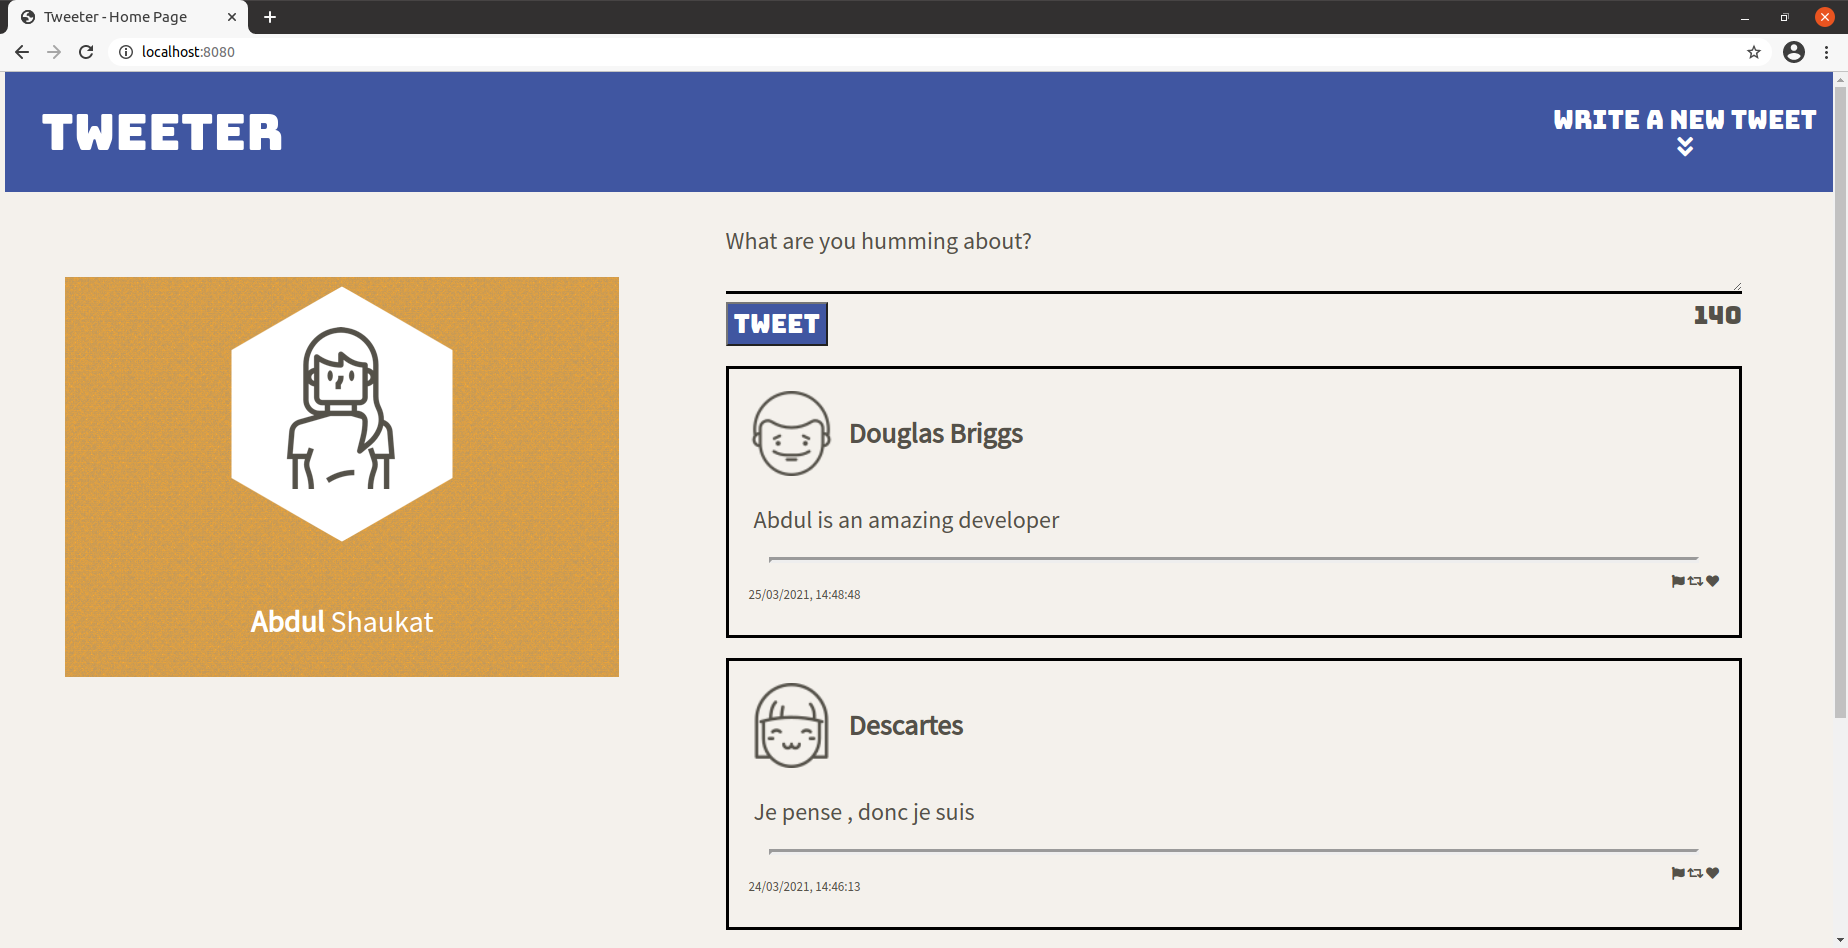
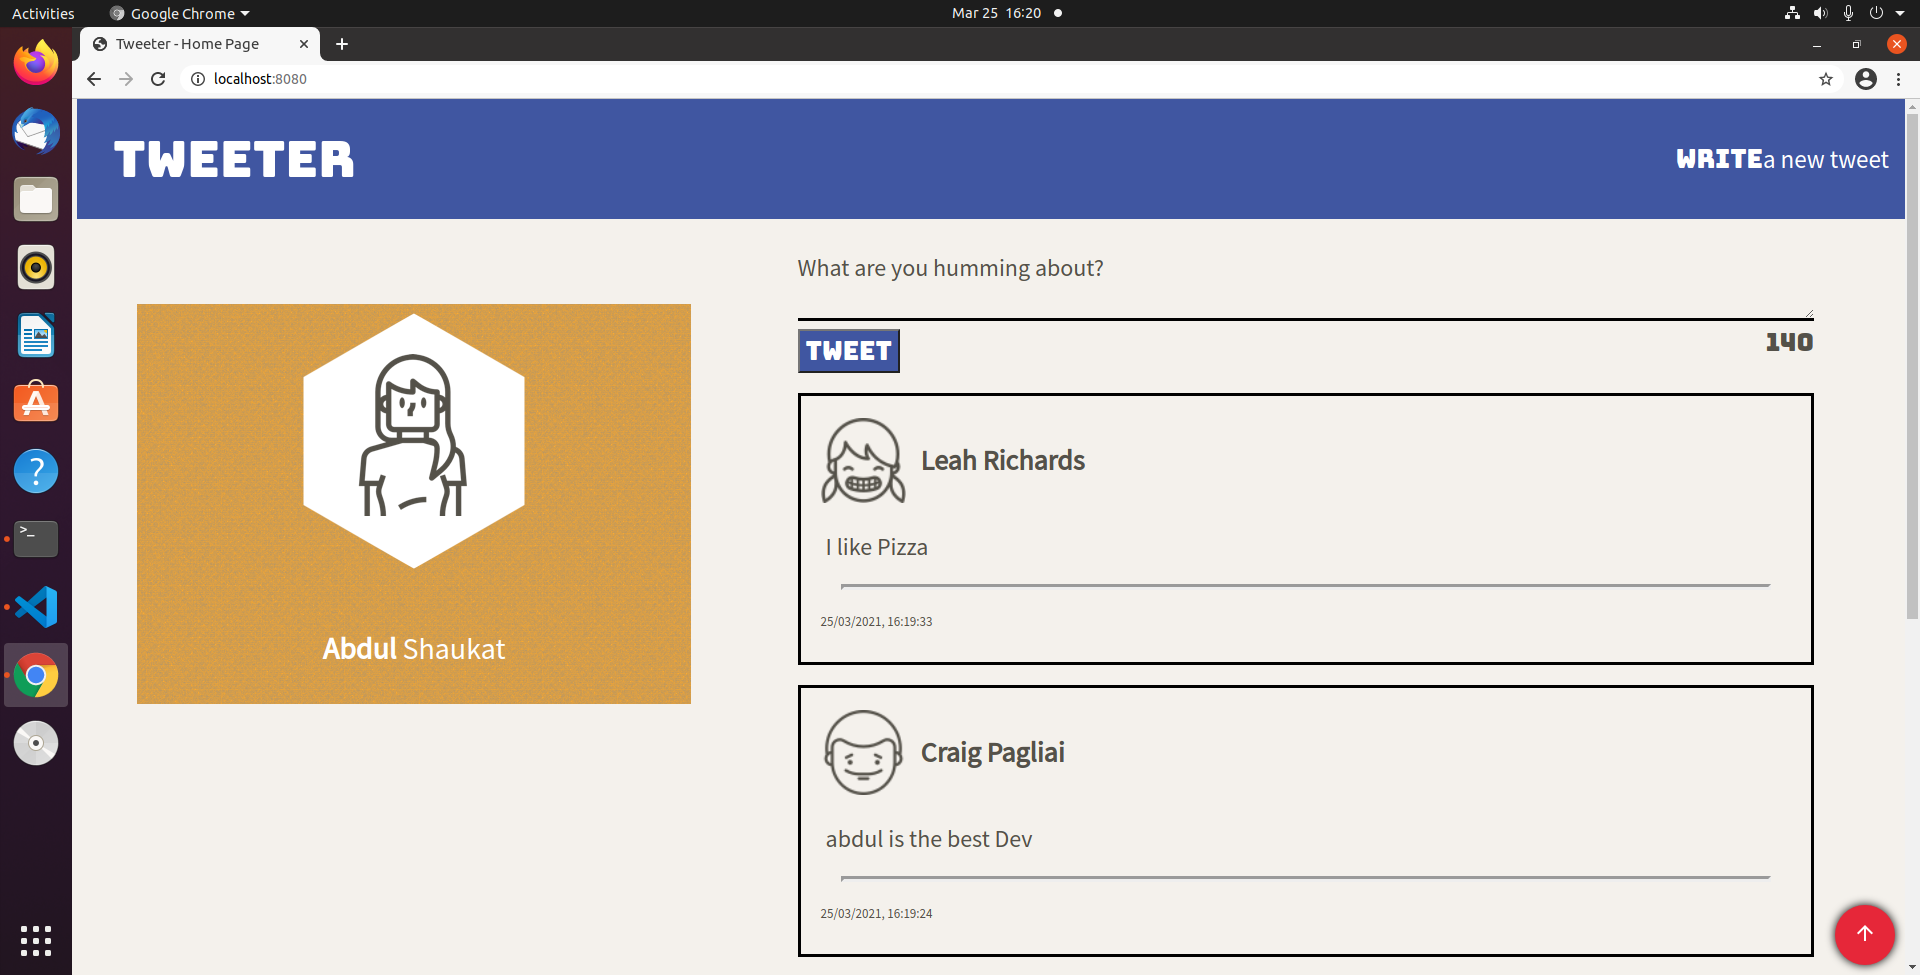
adding stretch features

Changed region(s): [[0.0, 0.0, 1.0, 1.0], [0.987, 0.6118, 1.0, 0.7648], [0.1234, 0.6424, 0.2776, 0.673]]

diff --git a/public/index.html b/public/index.html
@@ -7,6 +7,7 @@
 
     <!-- External CSS -->
     <link rel="stylesheet" href="https://cdnjs.cloudflare.com/ajax/libs/normalize/8.0.1/normalize.min.css" type="text/css" />
+    <link href="https://fonts.googleapis.com/icon?family=Material+Icons" rel="stylesheet">
     <!-- Fonts CDN-->
     <link rel="preconnect" href="https://fonts.gstatic.com">
     <link href="https://fonts.googleapis.com/css2?family=Bungee&family=Source+Sans+Pro&display=swap" rel="stylesheet">
@@ -30,8 +31,8 @@
   <body>
     <nav>
       <div class="name">TWEETER</div>
-      <div class="navRight"> Write <span style="font-family: Source Sans Pro, sans-serif"></span>  Write a new tweet</span>
-      <i class="fas fa-angle-double-down"></i>
+      <div class="navRight"> Write  <span style="font-family:Source Sans Pro, sans-serif"> a new tweet</span>
+      <!-- <i class="fas fa-angle-double-down"></i> -->
       </div>
     </nav>
    
@@ -46,6 +47,10 @@
     </header>
 
     <!-- Page-specific (main) content here -->
+    <!-- //creates up arrow icon -->
+    <div>
+      <button id="scroll"><i class="material-icons">arrow_upward</i></button>
+    </div>
     
     <main class="container">
       <section class="new-tweet">
@@ -71,3 +76,13 @@
   </body>
 </html>
 
+<!-- scroll functionality -->
+<script>
+  $('#scroll').on('click',()=>{
+    window.scrollTo({
+      top: 0,
+      left: 0,
+      behavior: "smooth"
+    })
+  })
+</script>

diff --git a/public/styles/layout.css b/public/styles/layout.css
@@ -34,6 +34,24 @@ body {
   
 }
 
+#scroll {
+  position:fixed;
+  right: 10px;
+  bottom: 10px;
+  width: 60px;
+  height: 60px;
+  border-radius: 50%;
+  background: #e62739;
+  box-shadow: 0px 0px 10px black ;
+  border: none;
+  color: white;
+  outline: none;
+  cursor: pointer;
+}
+
+#scroll:active {
+  color: #cc2333;
+}
 
 
 /* Another tablet breakpoint is maximum width of 1024px */

diff --git a/public/styles/nav.css b/public/styles/nav.css
@@ -21,8 +21,8 @@ nav {
 .navRight {
     font-size: 25px;
     display: flex;
-    flex-direction: column;
-    align-items: center;
+    /* flex-direction: column;
+    align-items: center; */
   
 }
 

diff --git a/public/styles/tweets.css b/public/styles/tweets.css
@@ -54,6 +54,11 @@ hr {
 
 .icons{
     margin-left: auto;
+    visibility: hidden;
+}
+
+.articlehead:hover .icons{
+    visibility: visible;
 }
 
 .articlefooter div{

diff --git a/README.md b/README.md
@@ -15,6 +15,7 @@ This repository is the starter code for the project: Students will fork and clon
 2. Install dependencies using the `npm install` command.
 3. Start the web server using the `npm run local` command. The app will be served at <http://localhost:8080/>.
 4. Go to <http://localhost:8080/> in your browser.
+5. Click on write a tweet to open up the form.
 
 ## Dependencies
 
